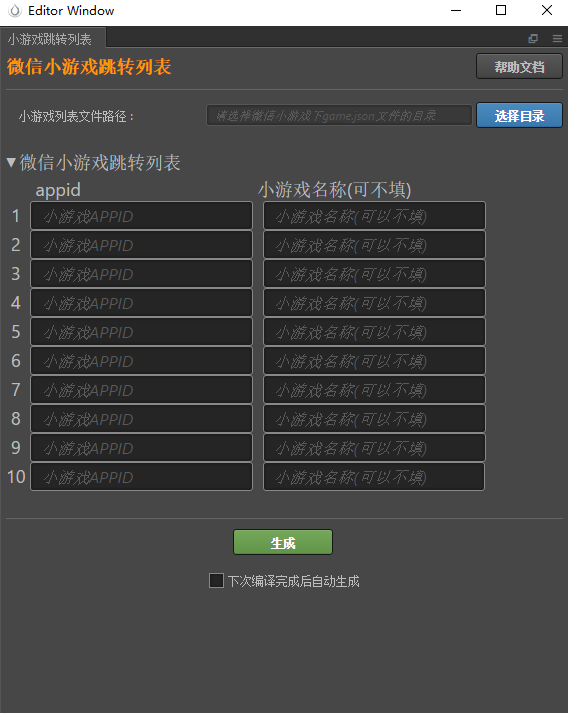
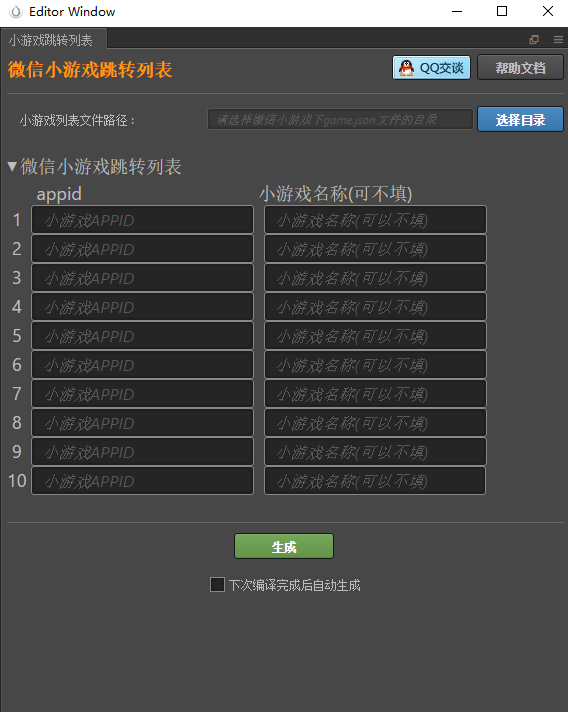
添加联系QQ

diff --git a/panel/index.js b/panel/index.js
@@ -66,6 +66,13 @@ Editor.Panel.extend({
           let url = "https://github.com/robotPin/cocosCreatorPlugin-WechatMiniAppidList";
           Electron.shell.openExternal(url);
         },
+        onBtnClickTellMe() {
+          // let data = nodeXlsx.parse(path.join(this.excelRootPath, 'test2.xlsx'));
+          // console.log(data);
+          // return;
+          let url = "http://wpa.qq.com/msgrd?v=3&uin=1067638746&site=qq&menu=yes";
+          Electron.shell.openExternal(url);
+        },
         /**选择小游戏保存的路径 */
         onBtnClickSelectJsonRootPath() {
           let res = Editor.Dialog.openFile({

diff --git a/panel/index.html b/panel/index.html
@@ -1,6 +1,9 @@
 <div class="layout horizontal center justified">
     <h2 class="end-justified" style="margin: 1px 0 1px 0;">微信小游戏跳转列表</h2>
     <div class="end-justified">
+        <ui-button v-on:confirm="onBtnClickTellMe"
+            style="background: url('http://wpa.qq.com/pa?p=2:1067638746:51');width: 79px;height: 25px;">
+        </ui-button>
         <ui-button @confirm="onBtnClickHelpDoc" tabindex="-1">
             帮助文档
         </ui-button>
